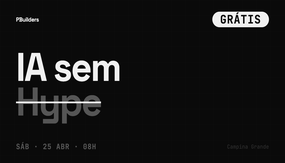
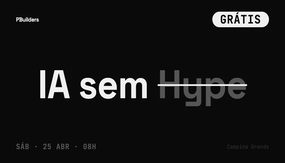
capa-sympla: headline em linha única centralizada

Changed region(s): [[0.0561, 0.3067, 0.5333, 0.7669], [0.5614, 0.4294, 0.8702, 0.6748]]

diff --git a/eventos/ia-sem-hype/midia/capa-sympla.html b/eventos/ia-sem-hype/midia/capa-sympla.html
@@ -77,13 +77,15 @@
       display: flex;
       flex-direction: column;
       justify-content: center;
+      align-items: center;
     }
 
     .headline {
       font-size: 205px;
       font-weight: 700;
       line-height: 0.87;
-      letter-spacing: -0.04em;
+      letter-spacing: -0.01em;
+      white-space: nowrap;
       color: #F0F0F0;
     }
 
@@ -130,7 +132,7 @@
 
     <div class="body">
       <div class="headline">
-        IA sem<br><span class="hype">Hype</span>
+        IA sem <span class="hype">Hype</span>
       </div>
     </div>
 
